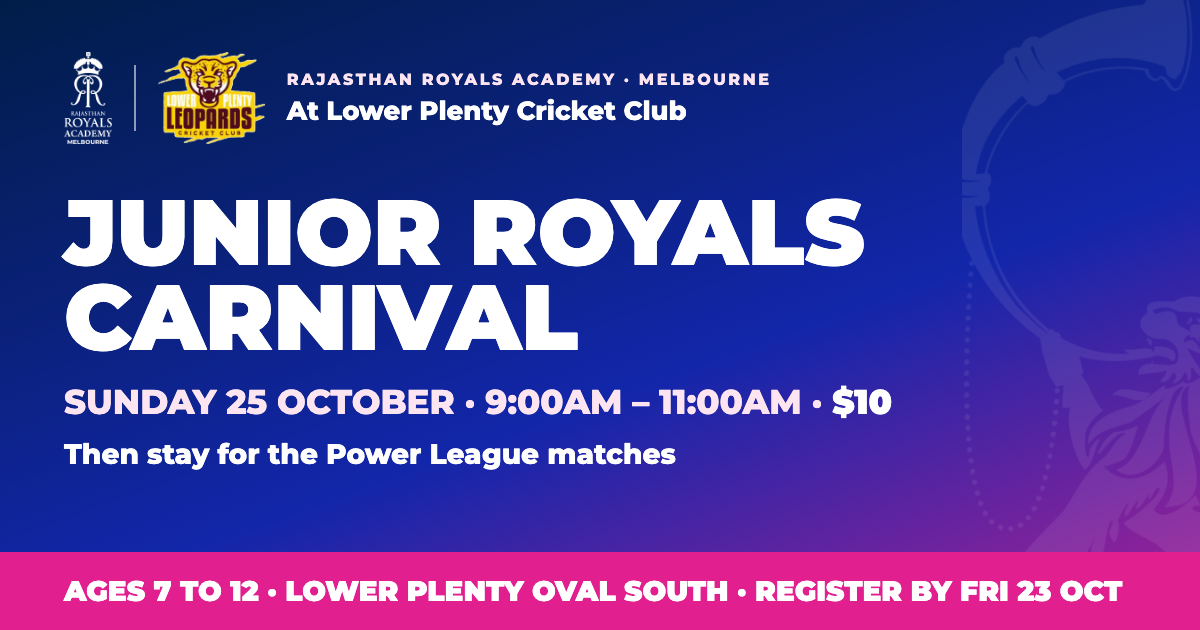
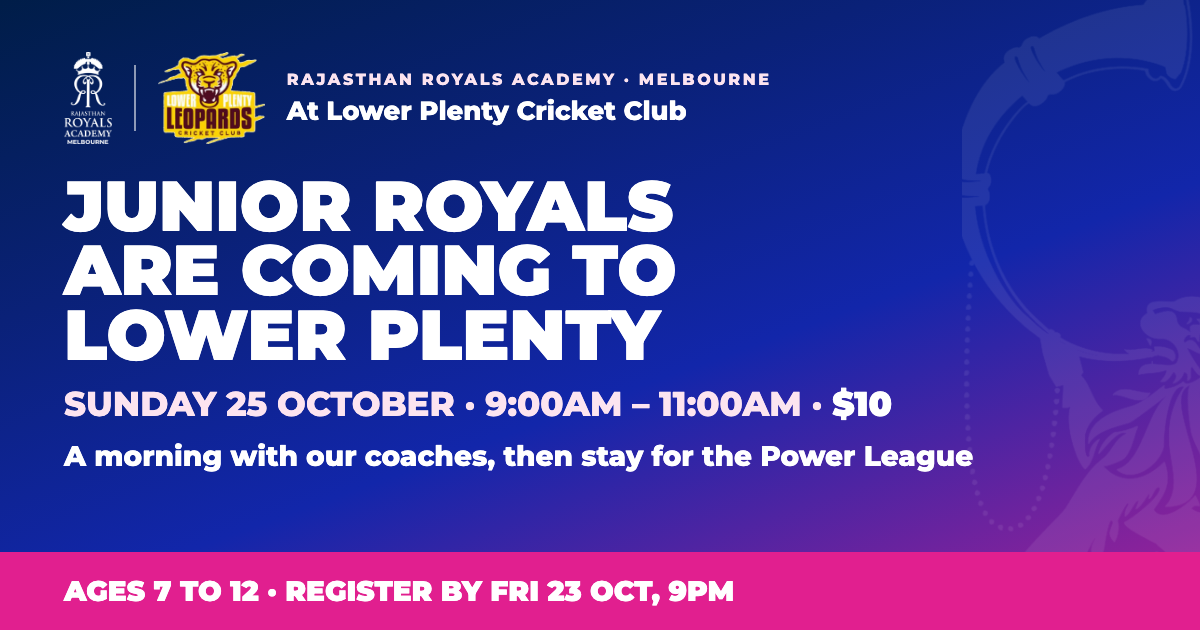
[Lower Plenty] Rename the event "Junior Royals Are Coming to Lower Plenty"
Alex, 18 Oct 2026: the Junior Royals Carnival is renamed "Junior Royals Are
Coming to Lower Plenty". The page heading, browser/Google title, success and
pay pages, Programs menu, What's On, home list and the share card use the new
name; "after the carnival" wording is now "afterwards". Meta Pixel
content_name follows the name.

Unchanged on purpose: the printed short address /carnival (already on the
posters), the Stripe product name "Junior Royals Carnival Day Entry Fee"
(the webhook maps the link by id, so renaming it is safe later), and the
internal table / sheet tab names.

diff --git a/src/components/lower-plenty-junior-royals-day/lpJrDayData.js b/src/components/lower-plenty-junior-royals-day/lpJrDayData.js
@@ -59,8 +59,10 @@ export const DB_TABLE = 'lower_plenty_junior_royals_day_registrations';
 export const PLACES_RPC = 'lower_plenty_jr_day_places';
 
 // ── The event ──
-export const EVENT_NAME = 'Junior Royals Carnival';
-export const PROGRAM_NAME = 'Junior Royals Carnival at Lower Plenty'; // Meta Pixel content_name
+// Renamed by Alex, 18 Oct 2026 (was "Junior Royals Carnival"). The Stripe product is
+// still called "Junior Royals Carnival Day Entry Fee"; the short address stays /carnival.
+export const EVENT_NAME = 'Junior Royals Are Coming to Lower Plenty';
+export const PROGRAM_NAME = EVENT_NAME; // Meta Pixel content_name
 export const MIN_AGE = 7;
 export const MAX_AGE = 12;
 export const AGES = `${MIN_AGE}–${MAX_AGE}`;
@@ -131,7 +133,7 @@ export const HERO_PHOTO = '/assets/little-crickets-hero.jpeg';
 
 // ── Power League matches after the carnival (Alex, 16 Oct 2026) ──
 export const POWER_LEAGUE = {
-    when: 'After the carnival',
+    when: 'Afterwards',
     title: 'Stay for the Power League',
     // Alex's words.
     line: 'Stay and watch our Power League players play off against each other.',
@@ -176,7 +178,7 @@ export const MORNING = {
     eyebrow: 'The Morning',
     title: 'Two Hours With Our Coaches',
     sub:
-        `${EVENT_NAME} is a morning of cricket for players aged ${AGES_SPOKEN}, run by the coaches `
+        `A morning of cricket for players aged ${AGES_SPOKEN}, run by the coaches `
         + 'from Rajasthan Royals Academy Melbourne.',
     steps: [
         {
@@ -234,7 +236,7 @@ export const WHERE = {
         ADDRESS_LINE,
     ],
     note:
-        `${VENUE.park} in ${VENUE.region} has two ovals. The carnival is on ${VENUE.oval}, ${CLUB}'s `
+        `${VENUE.park} in ${VENUE.region} has two ovals. The morning is on ${VENUE.oval}, ${CLUB}'s `
         + 'ground at the Park Lane end of the park: the pin on the map. Turn into Park Lane from Para Road. '
         + "The Power League matches afterwards are on both ovals: this one and Montmorency Cricket Club's ground.",
     mapTitle: `Map: ${VENUE.oval}, ${VENUE.park}, ${VENUE.suburb}`,
@@ -303,7 +305,7 @@ export const FAQS = [
             + "and your player's place is booked once the payment goes through.",
     },
     {
-        q: 'Can we stay after the carnival?',
+        q: 'Can we stay afterwards?',
         a: `Yes. ${POWER_LEAGUE.line} ${POWER_LEAGUE.explain} ${POWER_LEAGUE.grounds}`,
     },
     {
@@ -350,7 +352,7 @@ export const FAQ_HEADING = {
 
 // ── Success page ──
 export const SUCCESS = {
-    eyebrow: `${EVENT_NAME} · ${CLUB}`,
+    eyebrow: EVENT_NAME,
     title: 'Payment Received',
     // {name} is the player's first name, read from this browser's session only.
     lead: (name) => `Thanks — the $${PRICE} payment went through, so ${name ? `${name}'s` : 'your player\'s'} place is booked for ${DAY}, ${TIME}. Stripe emails you a receipt.`,
@@ -373,7 +375,7 @@ export const STORE = {
 
 // ── Pay page (/pay?booking=<id>) — for a family who registered but didn't finish paying.
 export const PAY_PAGE = {
-    eyebrow: `${EVENT_NAME} · ${CLUB}`,
+    eyebrow: EVENT_NAME,
     title: 'Finish Paying',
     body:
         `Your registration is saved. Pay $${PRICE} (incl. GST) to book the place for ${DAY}, ${TIME}, `

diff --git a/src/seo/pageSeo.js b/src/seo/pageSeo.js
@@ -41,14 +41,15 @@ export const PAGE_SEO = {
     description:
       'Nominate a player for a Rajasthan Royals Academy Power League T20 match day on Sunday 25 October, Lower Plenty and Montmorency. Ages 10 to 25, $35 a game. Nominations close Tuesday 20 October.',
   },
-  // Junior Royals Carnival at Lower Plenty, Sun 25 Oct 2026 (Alex, 16 Oct 2026).
+  // "Junior Royals Are Coming to Lower Plenty" (renamed 18 Oct; was the Junior Royals
+  // Carnival), Sun 25 Oct 2026 (Alex, 16 Oct 2026).
   // Shared off the flyer QR and in WhatsApp, so it is prerendered with its own
   // card. Facts mirror components/lower-plenty-junior-royals-day/lpJrDayData.js.
   // REVIEW 26 OCT 2026 — the morning is over.
   '/lower-plenty-junior-royals-day': {
-    title: 'Junior Cricket Carnival, Lower Plenty Melbourne | Royals',
+    title: 'Junior Royals Are Coming to Lower Plenty | Melbourne',
     description:
-      'Junior Royals Carnival for players aged 7 to 12: Sunday 25 October, 9–11am, Lower Plenty Oval South, Montmorency Park, Melbourne. Rajasthan Royals Academy coaches, then Power League matches. $10 incl. GST.',
+      'A morning of cricket for players aged 7 to 12: Sunday 25 October, 9–11am, Lower Plenty Oval South, Montmorency Park, Melbourne. Rajasthan Royals Academy coaches, then Power League matches. $10 incl. GST.',
     ogImage: '/assets/lower-plenty/lower-plenty-jr-day-og.png',
   },
   '/spin-club': {

diff --git a/src/App.jsx b/src/App.jsx
@@ -271,7 +271,7 @@ function App() {
         <Route path="/sid-juniors" element={<React.Suspense fallback={<div className="min-h-screen bg-rr-dark" />}><SidJuniors /></React.Suspense>} />
         <Route path="/sid-juniors/success" element={<React.Suspense fallback={<div className="min-h-screen bg-rr-dark" />}><SidJuniorsSuccess /></React.Suspense>} />
 
-        {/* Junior Royals Carnival at Lower Plenty Cricket Club, Sun 25 Oct 2026 — $10, ages 7–12.
+        {/* Junior Royals Are Coming to Lower Plenty (Lower Plenty Cricket Club), Sun 25 Oct 2026 — $10, ages 7–12.
             Public. REVIEW 26 OCT 2026: take it off the promo surfaces, then close or retire. */}
         <Route path="/lower-plenty-junior-royals-day" element={<React.Suspense fallback={<div className="min-h-screen bg-white" />}><LowerPlentyJrDay /></React.Suspense>} />
         <Route path="/lower-plenty-junior-royals-day/success" element={<React.Suspense fallback={<div className="min-h-screen bg-white" />}><LowerPlentyJrDaySuccess /></React.Suspense>} />

diff --git a/src/components/lower-plenty-junior-royals-day/lpJrDayPromo.js b/src/components/lower-plenty-junior-royals-day/lpJrDayPromo.js
@@ -18,7 +18,7 @@ export const LP_JR_DAY_ROUTE = ROUTE;
 export const PROGRAM_ROW = {
     navLabel: `${EVENT_NAME} · ${AGES}`,
     navBadge: `$${PRICE} · ${SHORT_DAY}`,
-    heroLabel: `${EVENT_NAME} at Lower Plenty`,
+    heroLabel: EVENT_NAME,
     heroBadge: `Ages ${AGES_SPOKEN} · ${SHORT_DAY}, 9–11am · $${PRICE}`,
     drawerUrgency: `Ages ${AGES_SPOKEN} — ${CLUB}, ${SHORT_DAY}, 9–11am, $${PRICE} incl. GST. Registrations close ${CLOSES}`,
 };
@@ -26,7 +26,7 @@ export const PROGRAM_ROW = {
 // The ticker shows only `name` and `tag`, so the tag says who, where, when, cost.
 export const ANNOUNCEMENT = {
     key: 'lower-plenty-junior-royals-day',
-    name: `${EVENT_NAME} at ${CLUB}`,
+    name: EVENT_NAME,
     tag: `Ages ${AGES_SPOKEN} · ${SHORT_DAY}, ${TIME} · $${PRICE}`,
     detail: `Lower Plenty Oval South, Montmorency Park · $${PRICE} incl. GST · then stay for the Power League matches · registrations close ${CLOSES}`,
     href: ROUTE,

diff --git a/src/components/lower-plenty-junior-royals-day/LPHero.jsx b/src/components/lower-plenty-junior-royals-day/LPHero.jsx
@@ -52,7 +52,7 @@ const LPHero = ({ places }) => {
                     <p className="text-white/85 text-[15px] sm:text-lg font-medium leading-relaxed max-w-2xl">
                         {HERO.why}
                     </p>
-                    {/* What follows the carnival (Alex, 16 Oct 2026). */}
+                    {/* What follows the morning (Alex, 16 Oct 2026). */}
                     <p className="text-white text-[15px] sm:text-lg font-bold leading-relaxed mt-2 mb-6 max-w-2xl">
                         {HERO.then}
                     </p>

diff --git a/src/components/home-page/openDaysData.js b/src/components/home-page/openDaysData.js
@@ -33,7 +33,7 @@ import { ANNOUNCEMENT as SID_JUNIORS_ANNOUNCEMENT } from '../sid-juniors/sidJuni
 import { ANNOUNCEMENT as LP_JR_DAY_ANNOUNCEMENT } from '../lower-plenty-junior-royals-day/lpJrDayPromo';
 
 export const ANNOUNCEMENTS = [
-    // $10 Junior Royals Carnival at Lower Plenty, Sun 25 Oct 2026 (Alex, 16 Oct
+    // Junior Royals Are Coming to Lower Plenty ($10), Sun 25 Oct 2026 (Alex, 16 Oct
     // 2026). Nearest real deadline (Fri 23 Oct, 9pm). REVIEW 26 OCT 2026: remove.
     LP_JR_DAY_ANNOUNCEMENT,
     {

diff --git a/src/components/lower-plenty-junior-royals-day/LowerPlentyJrDaySuccess.jsx b/src/components/lower-plenty-junior-royals-day/LowerPlentyJrDaySuccess.jsx
@@ -44,7 +44,7 @@ const LowerPlentyJrDaySuccess = () => {
 
     useEffect(() => {
         window.scrollTo(0, 0);
-        document.title = "Payment Received | Junior Royals Carnival, Lower Plenty";
+        document.title = "Payment Received | Junior Royals Are Coming to Lower Plenty";
         const meta = document.createElement('meta');
         meta.name = 'robots';
         meta.content = 'noindex,nofollow';

diff --git a/src/components/lower-plenty-junior-royals-day/LowerPlentyJrDayPay.jsx b/src/components/lower-plenty-junior-royals-day/LowerPlentyJrDayPay.jsx
@@ -15,7 +15,7 @@ const LowerPlentyJrDayPay = () => {
 
     useEffect(() => {
         window.scrollTo(0, 0);
-        document.title = 'Finish Paying | Junior Royals Carnival, Lower Plenty';
+        document.title = 'Finish Paying | Junior Royals Are Coming to Lower Plenty';
         const meta = document.createElement('meta');
         meta.name = 'robots';
         meta.content = 'noindex,nofollow';
